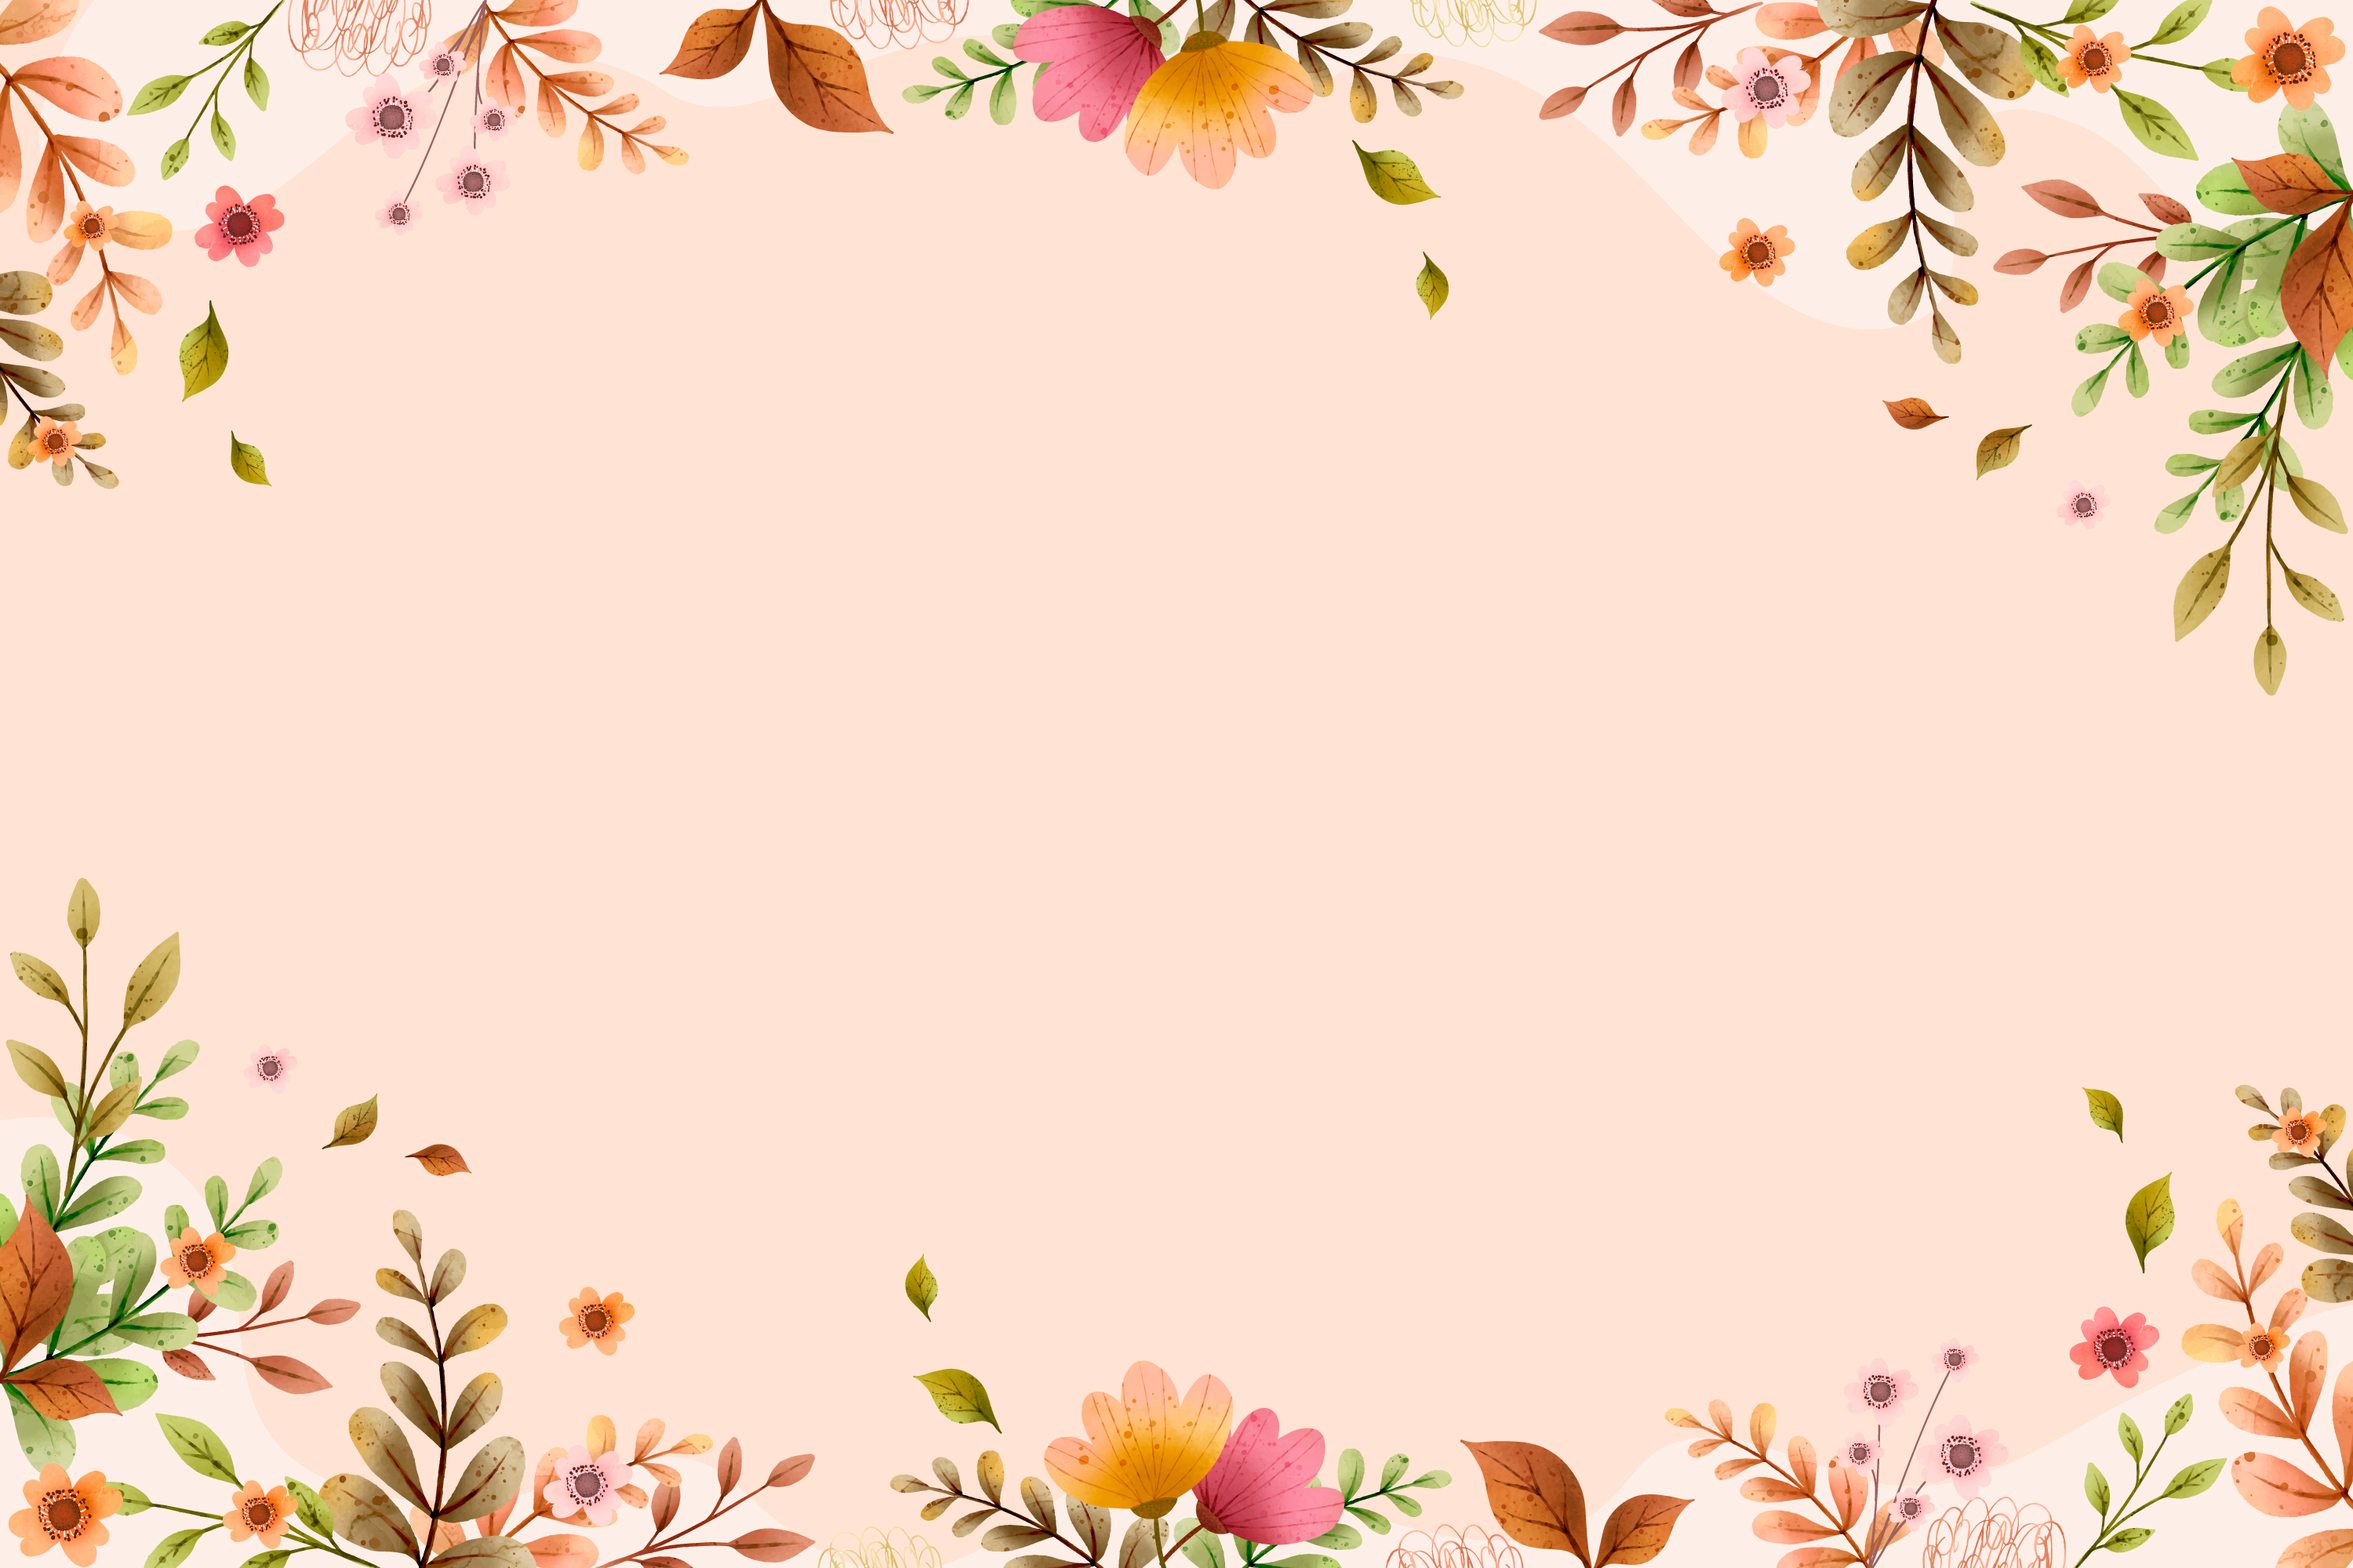
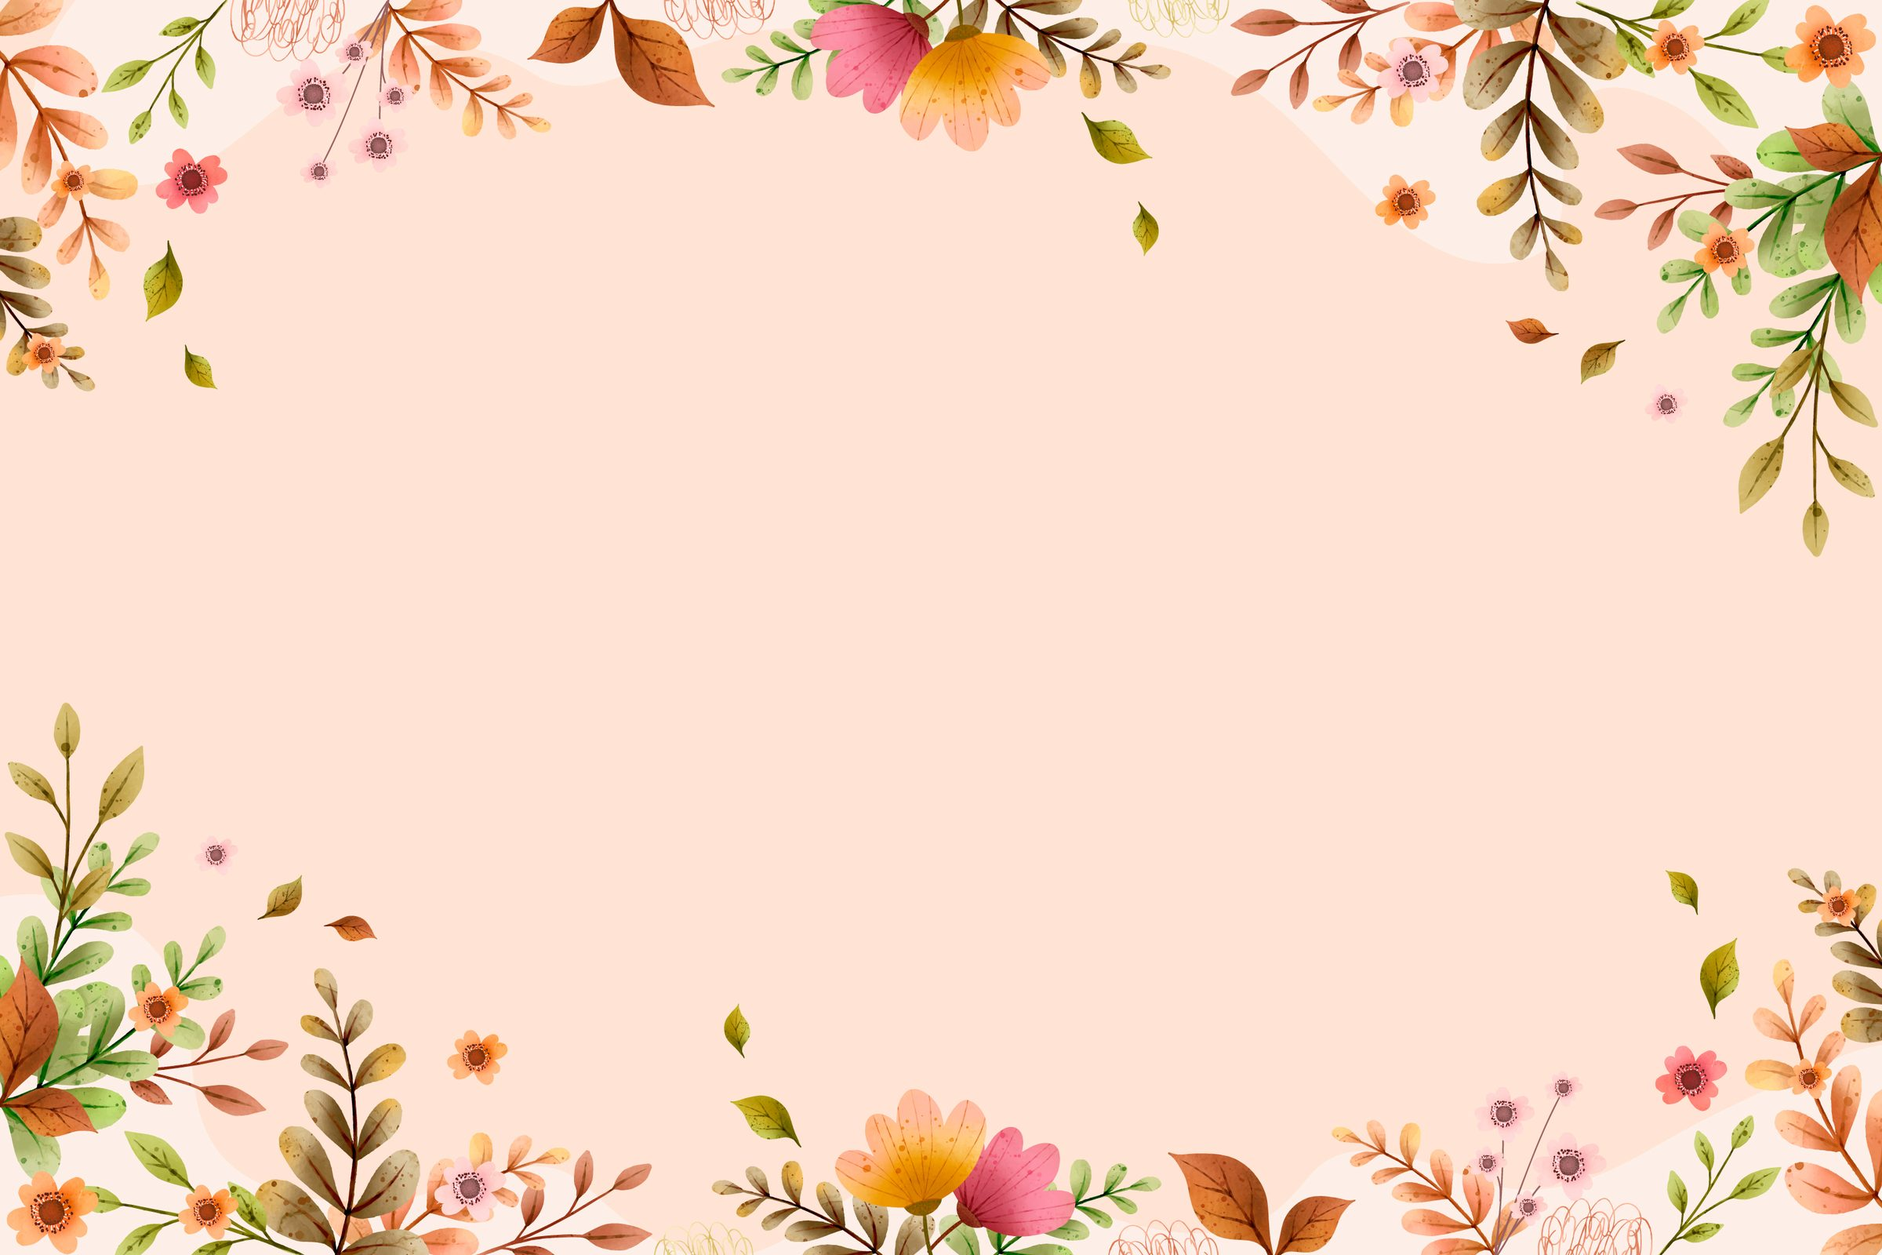
bg inage change

diff --git a/index.html b/index.html
@@ -4,21 +4,21 @@
 <head>
   <meta charset="UTF-8" />
   <meta name="viewport" content="width=device-width, initial-scale=1.0" />
-  <title>Prasanth R & Iswarya Janani A — Wedding Celebrations</title>
+  <title>Prasanth R & Iswarya janani A — Wedding Celebrations</title>
   <meta name="description"
-    content="Join Prasanth R & Iswarya Janani A for wedding and reception celebrations in Coimbatore, Tamil Nadu on 24 and 25 October 2026." />
-  <meta property="og:title" content="Prasanth R & Iswarya Janani A — Wedding Celebrations" />
+    content="Join Prasanth R & Iswarya janani A for wedding and reception celebrations in Coimbatore, Tamil Nadu on 24 and 25 October 2026." />
+  <meta property="og:title" content="Prasanth R & Iswarya janani A — Wedding Celebrations" />
   <meta property="og:description"
     content="Join our wedding and reception celebrations in Coimbatore, Tamil Nadu on 24 and 25 October 2026." />
   <meta property="og:type" content="website" />
-  <meta property="og:site_name" content="Prasanth R & Iswarya Janani A Wedding">
+  <meta property="og:site_name" content="Prasanth R & Iswarya janani A Wedding">
   <meta property="og:image:type" content="image/png" />
   <meta property="og:image:width" content="1200" />
   <meta property="og:image:height" content="630" />
-  <meta property="og:image:alt" content="Wedding invitation for Prasanth R & Iswarya Janani A" />
+  <meta property="og:image:alt" content="Wedding invitation for Prasanth R & Iswarya janani A" />
 
   <meta name="twitter:card" content="summary_large_image" />
-  <meta name="twitter:title" content="Prasanth R & Iswarya Janani A — Wedding Celebrations" />
+  <meta name="twitter:title" content="Prasanth R & Iswarya janani A — Wedding Celebrations" />
   <meta name="twitter:description"
     content="Join our wedding and reception celebrations in Coimbatore, Tamil Nadu on 24 and 25 October 2026." />
   <link rel="icon" type="image/png" href="./assets/seal.png" />
@@ -42,9 +42,9 @@
       <!-- Title above envelope -->
       <div class="env-title">
         <p class="env-title-top" data-i18n="envTitleTop">✨ &nbsp; A Wedding Invitation &nbsp; ✨</p>
-        <!-- <p class="env-title-names">Prasanth R <br> weds <br> Iswarya Janani A</p> -->
+        <!-- <p class="env-title-names">Prasanth R <br> weds <br> Iswarya janani A</p> -->
         <p class="env-title-names">Prasanth R <br> <span
-            style="font-family: 'Alex Brush', cursive; color: #B8862E; font-size: 1.4em; font-style: normal;">weds</span> <br> Iswarya Janani A
+            style="font-family: 'Alex Brush', cursive; color: #B8862E; font-size: 1.4em; font-style: normal;">weds</span> <br> Iswarya janani A
         </p>
 
       </div>
@@ -78,7 +78,8 @@
         <div class="env-inner-card" id="env-inner-card">
           <p class="env-card-eyebrow" data-i18n="envBlessings">🪔 &nbsp; With our families' love and support &nbsp; 🪔
           </p>
-          <p class="env-card-names">Prasanth R<br /><em class="env-amp" data-i18n="heroWeds">weds</em><br /><em>Iswarya Janani A</em></p>
+          <p class="env-card-names">Prasanth R<br /><em class="env-amp" data-i18n="heroWeds">weds</em><br /><em>B.
+              Santhoshini</em></p>
           <p class="env-card-date" data-i18n="heroDate">October 2026 · Coimbatore, Tamil Nadu</p>
         </div>
 
@@ -231,7 +232,7 @@
     <h1 class="hero-names">
       Prasanth R
       <span class="hero-amp" data-i18n="heroWeds">weds</span>
-      <em>Iswarya Janani A</em>
+      <em>Iswarya janani A</em>
     </h1>
 
     <div class="hero-divider">
@@ -477,7 +478,7 @@
             style="display:block; font-size:11px; font-weight:500; letter-spacing:0.12em; text-transform:uppercase; color:var(--text-on-dark-muted); margin-bottom:6px;"
             data-i18n="yourWish">Your Wish *</label>
           <textarea id="wish-message" rows="4" data-i18n-placeholder="wishPlaceholder"
-            placeholder="Write your heartfelt wishes for Prasanth R & Iswarya Janani A"
+            placeholder="Write your heartfelt wishes for Prasanth R & Iswarya janani A"
             style="width:100%; padding:12px 14px; border:1px solid var(--card-glass-border); border-radius:4px; font-size:14px; font-family:'Inter',sans-serif; color:var(--text-on-dark); background:rgba(255,255,255,0.5); outline:none; resize:vertical; transition:border 0.2s; line-height:1.6;"
             onfocus="this.style.borderColor='var(--gold)'"
             onblur="this.style.borderColor='var(--card-glass-border)'"></textarea>
@@ -598,7 +599,7 @@
         </g>
       </svg>
     </div>
-    <div class="footer-names">Prasanth R<br>weds<br>Iswarya Janani A</div>
+    <div class="footer-names">Prasanth R<br>weds<br>Iswarya janani A</div>
     <div class="footer-tagline" data-i18n="footerTagline">October 2026 · Coimbatore, Tamil Nadu</div>
     <div class="footer-note" data-i18n="footerNote">Let’s laugh, celebrate, and make memories together!</div>
     <!-- Designed-by credit -->

diff --git a/styles.css b/styles.css
@@ -1,7 +1,7 @@
 @font-face {
   font-family: 'Callista';
-  src: url('assets/fonts/Callista-vmqlE.woff2') format('woff2'),
-    url('assets/fonts/Callista-vmqlE.woff') format('woff');
+  src: url('./assets/fonts/Callista-vmqlE.woff2') format('woff2'),
+    url('./assets/fonts/Callista-vmqlE.woff') format('woff');
   font-weight: 400;
   font-style: normal;
   font-display: swap;
